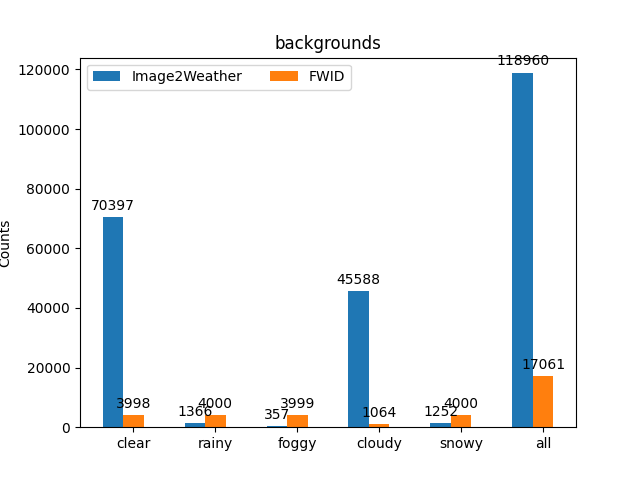
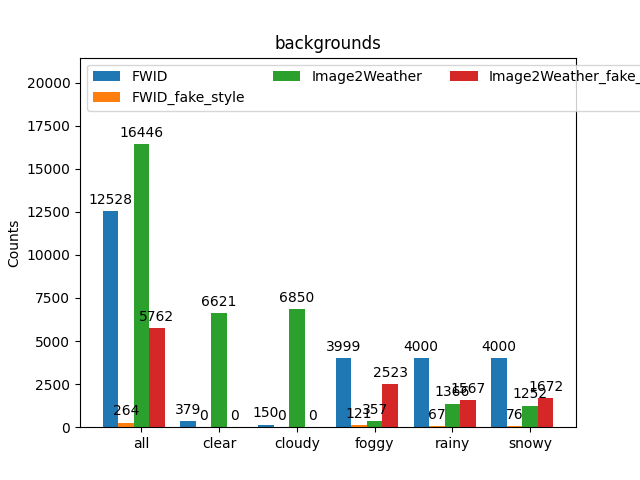
Fix formating for showing statistics & Add an statistics image for background

diff --git a/scripts/datasets/show_classification_dataset_statistics.py b/scripts/datasets/show_classification_dataset_statistics.py
@@ -60,28 +60,34 @@ def show_classification_statistics(
         subsets = [
             subset for subset in os.listdir(root_dir) if subset not in excluded_subsets
         ]
+        subsets = sorted(subsets)
+
+    labels = {"all"}
+    for subset in subsets:
+        subset_dir = os.path.join(root_dir, subset)
+        labels.update(os.listdir(subset_dir))
+    labels = sorted(labels)
 
     max_count = 0
     subset_counts: dict[str, dict[str, int]] = defaultdict(dict)
     for subset in subsets:
         subset_dir = os.path.join(root_dir, subset)
 
-        labels = os.listdir(subset_dir)
         for label in labels:
             label_dir = os.path.join(subset_dir, label)
-            if not os.path.isdir(label_dir):
-                continue
-            count = len(os.listdir(label_dir))
-            subset_counts[subset][label] = count
+            if os.path.isdir(label_dir):
+                subset_counts[subset][label] = len(os.listdir(label_dir))
+            else:
+                subset_counts[subset][label] = 0
+
         count = sum(subset_counts[subset].values())
         subset_counts[subset]["all"] = count
         max_count = max(max_count, count)
 
     if title is None:
         title = root_dir.split(os.sep)[-1]
-    labels = list(list(subset_counts.values())[0].keys())
     x = np.arange(len(labels))
-    width = 0.25  # the width of the bars
+    width = 0.2  # the width of the bars
 
     fig, axe = plt.subplots()
     for multiplier, (subset, counts) in enumerate(subset_counts.items()):
@@ -91,7 +97,7 @@ def show_classification_statistics(
 
     axe.set_title(title)
     axe.set_ylabel("Counts")
-    axe.xaxis.set_ticks(x + width, labels)
+    axe.xaxis.set_ticks(x + (width * len(subsets)) / 2, labels)
     if not all_in_one:
         axe.legend(loc="upper left", ncols=3)
     axe.set_ylim(0, max_count + 5000)
